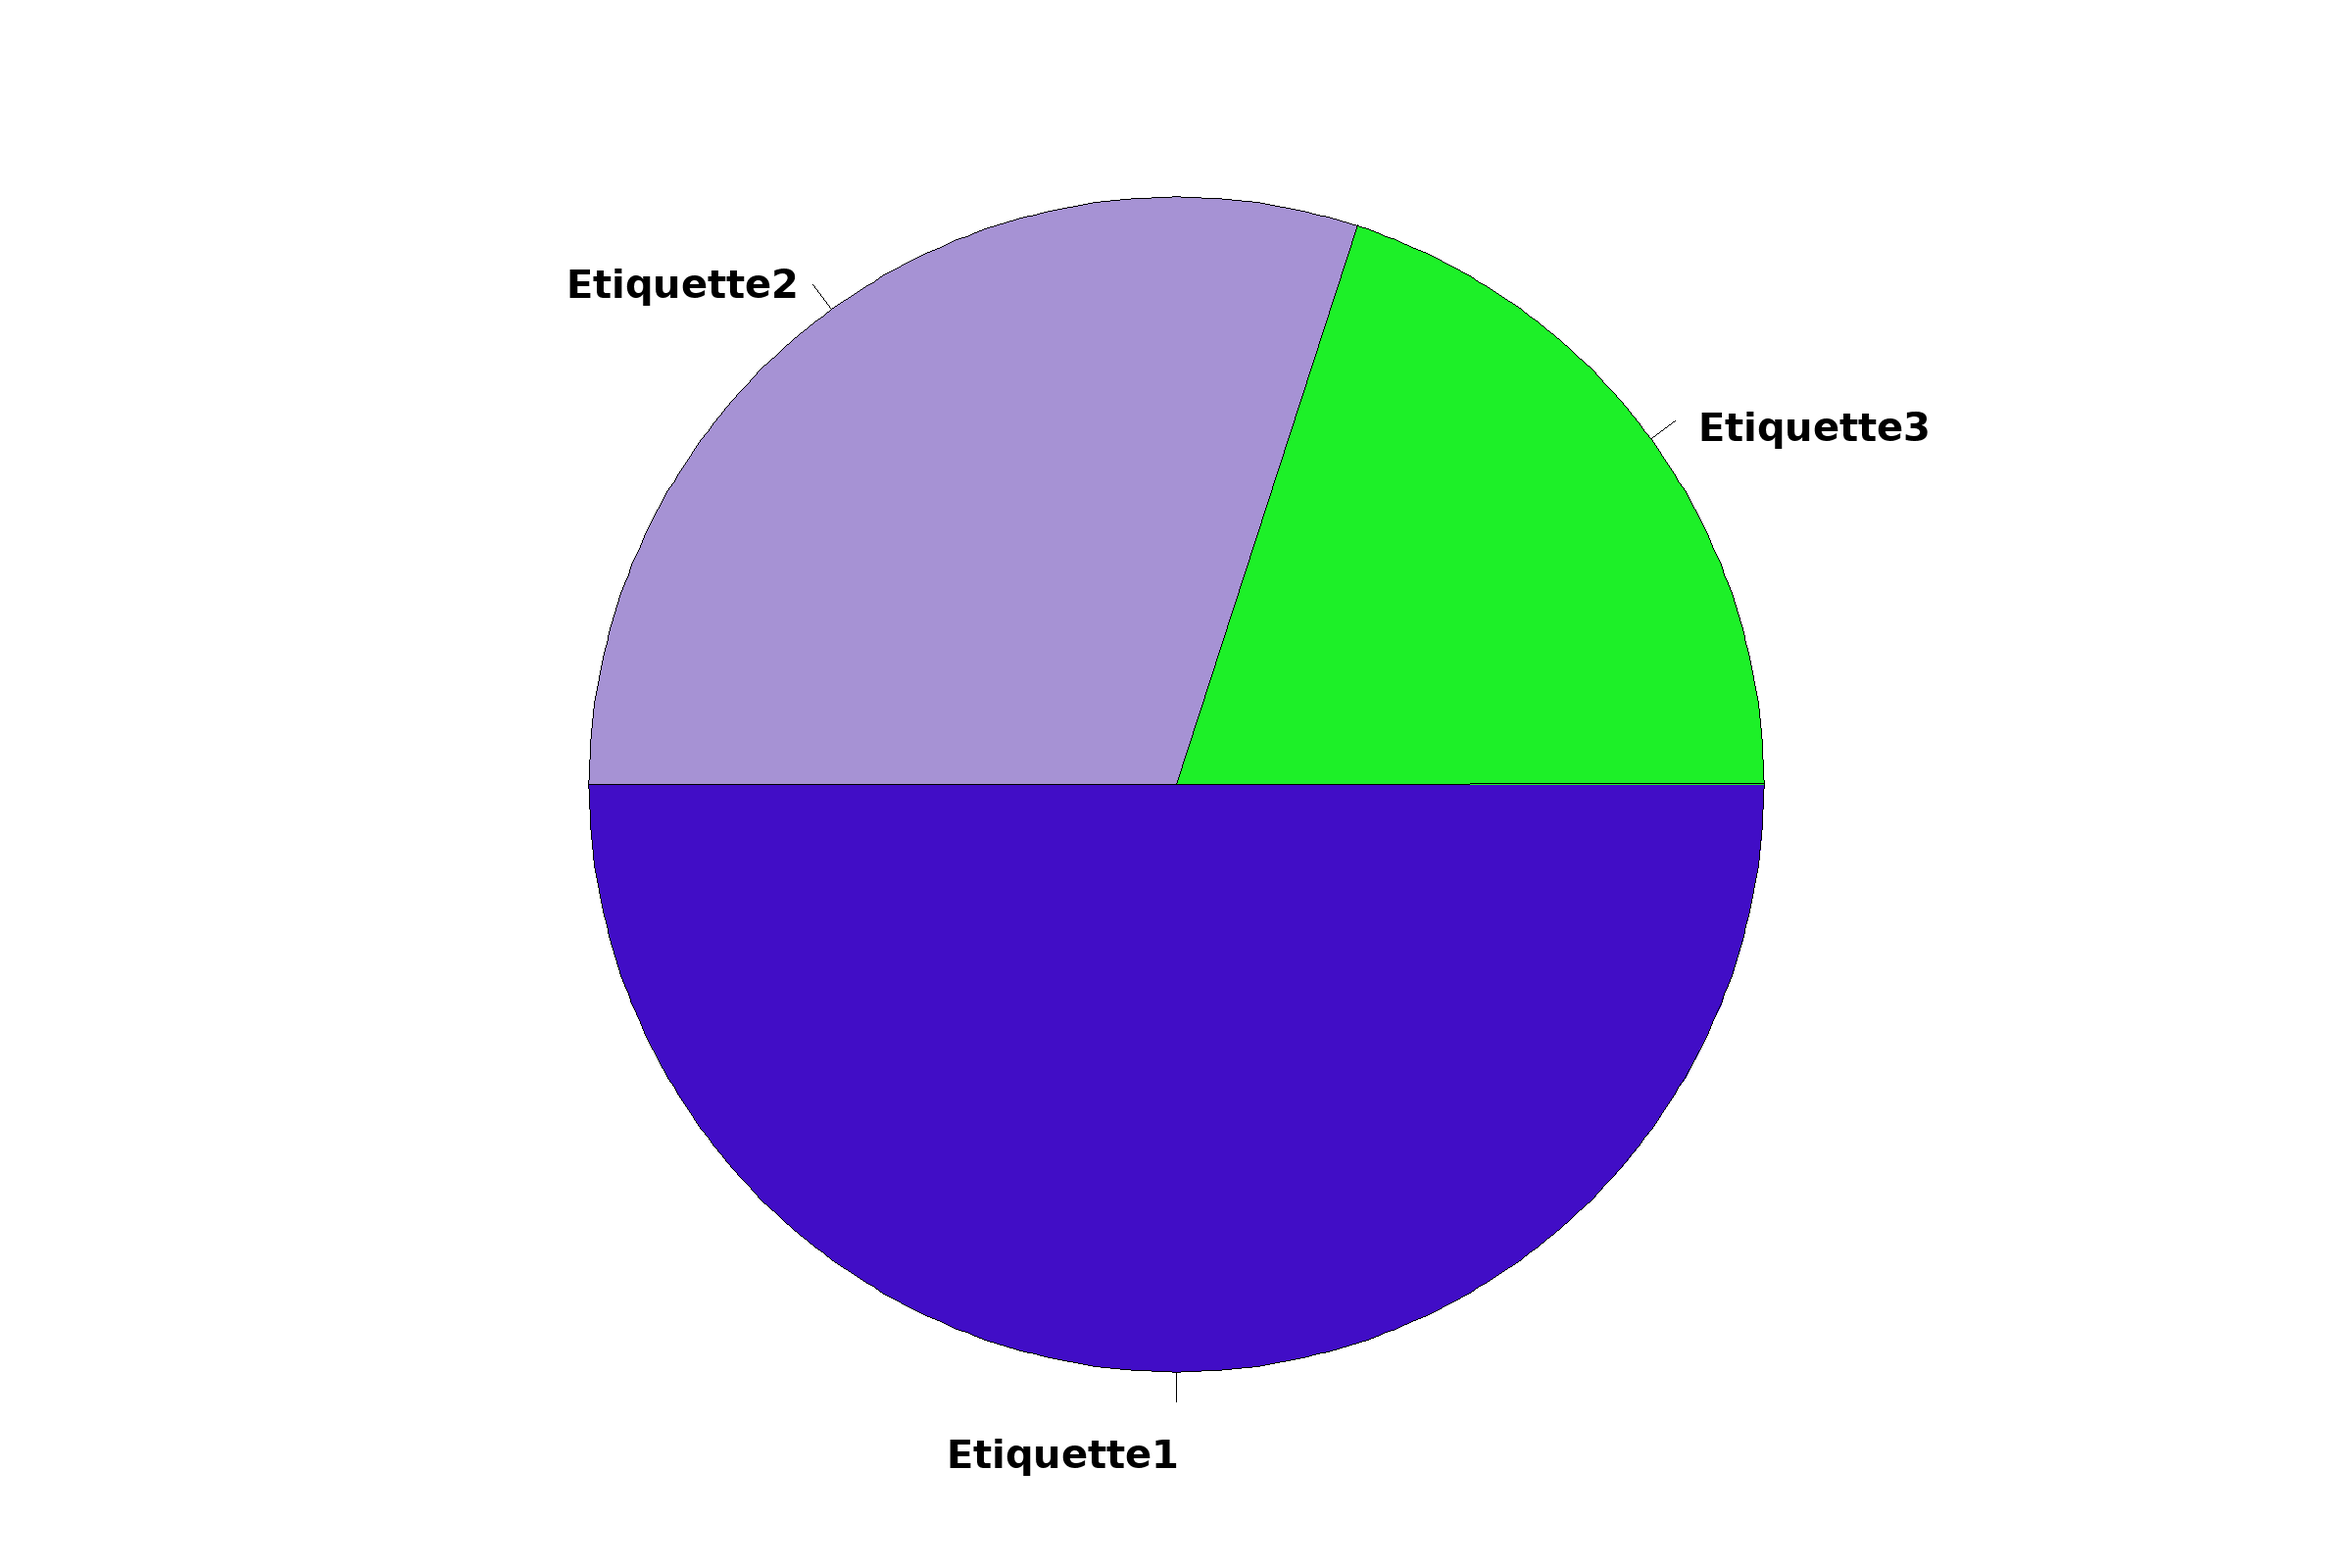
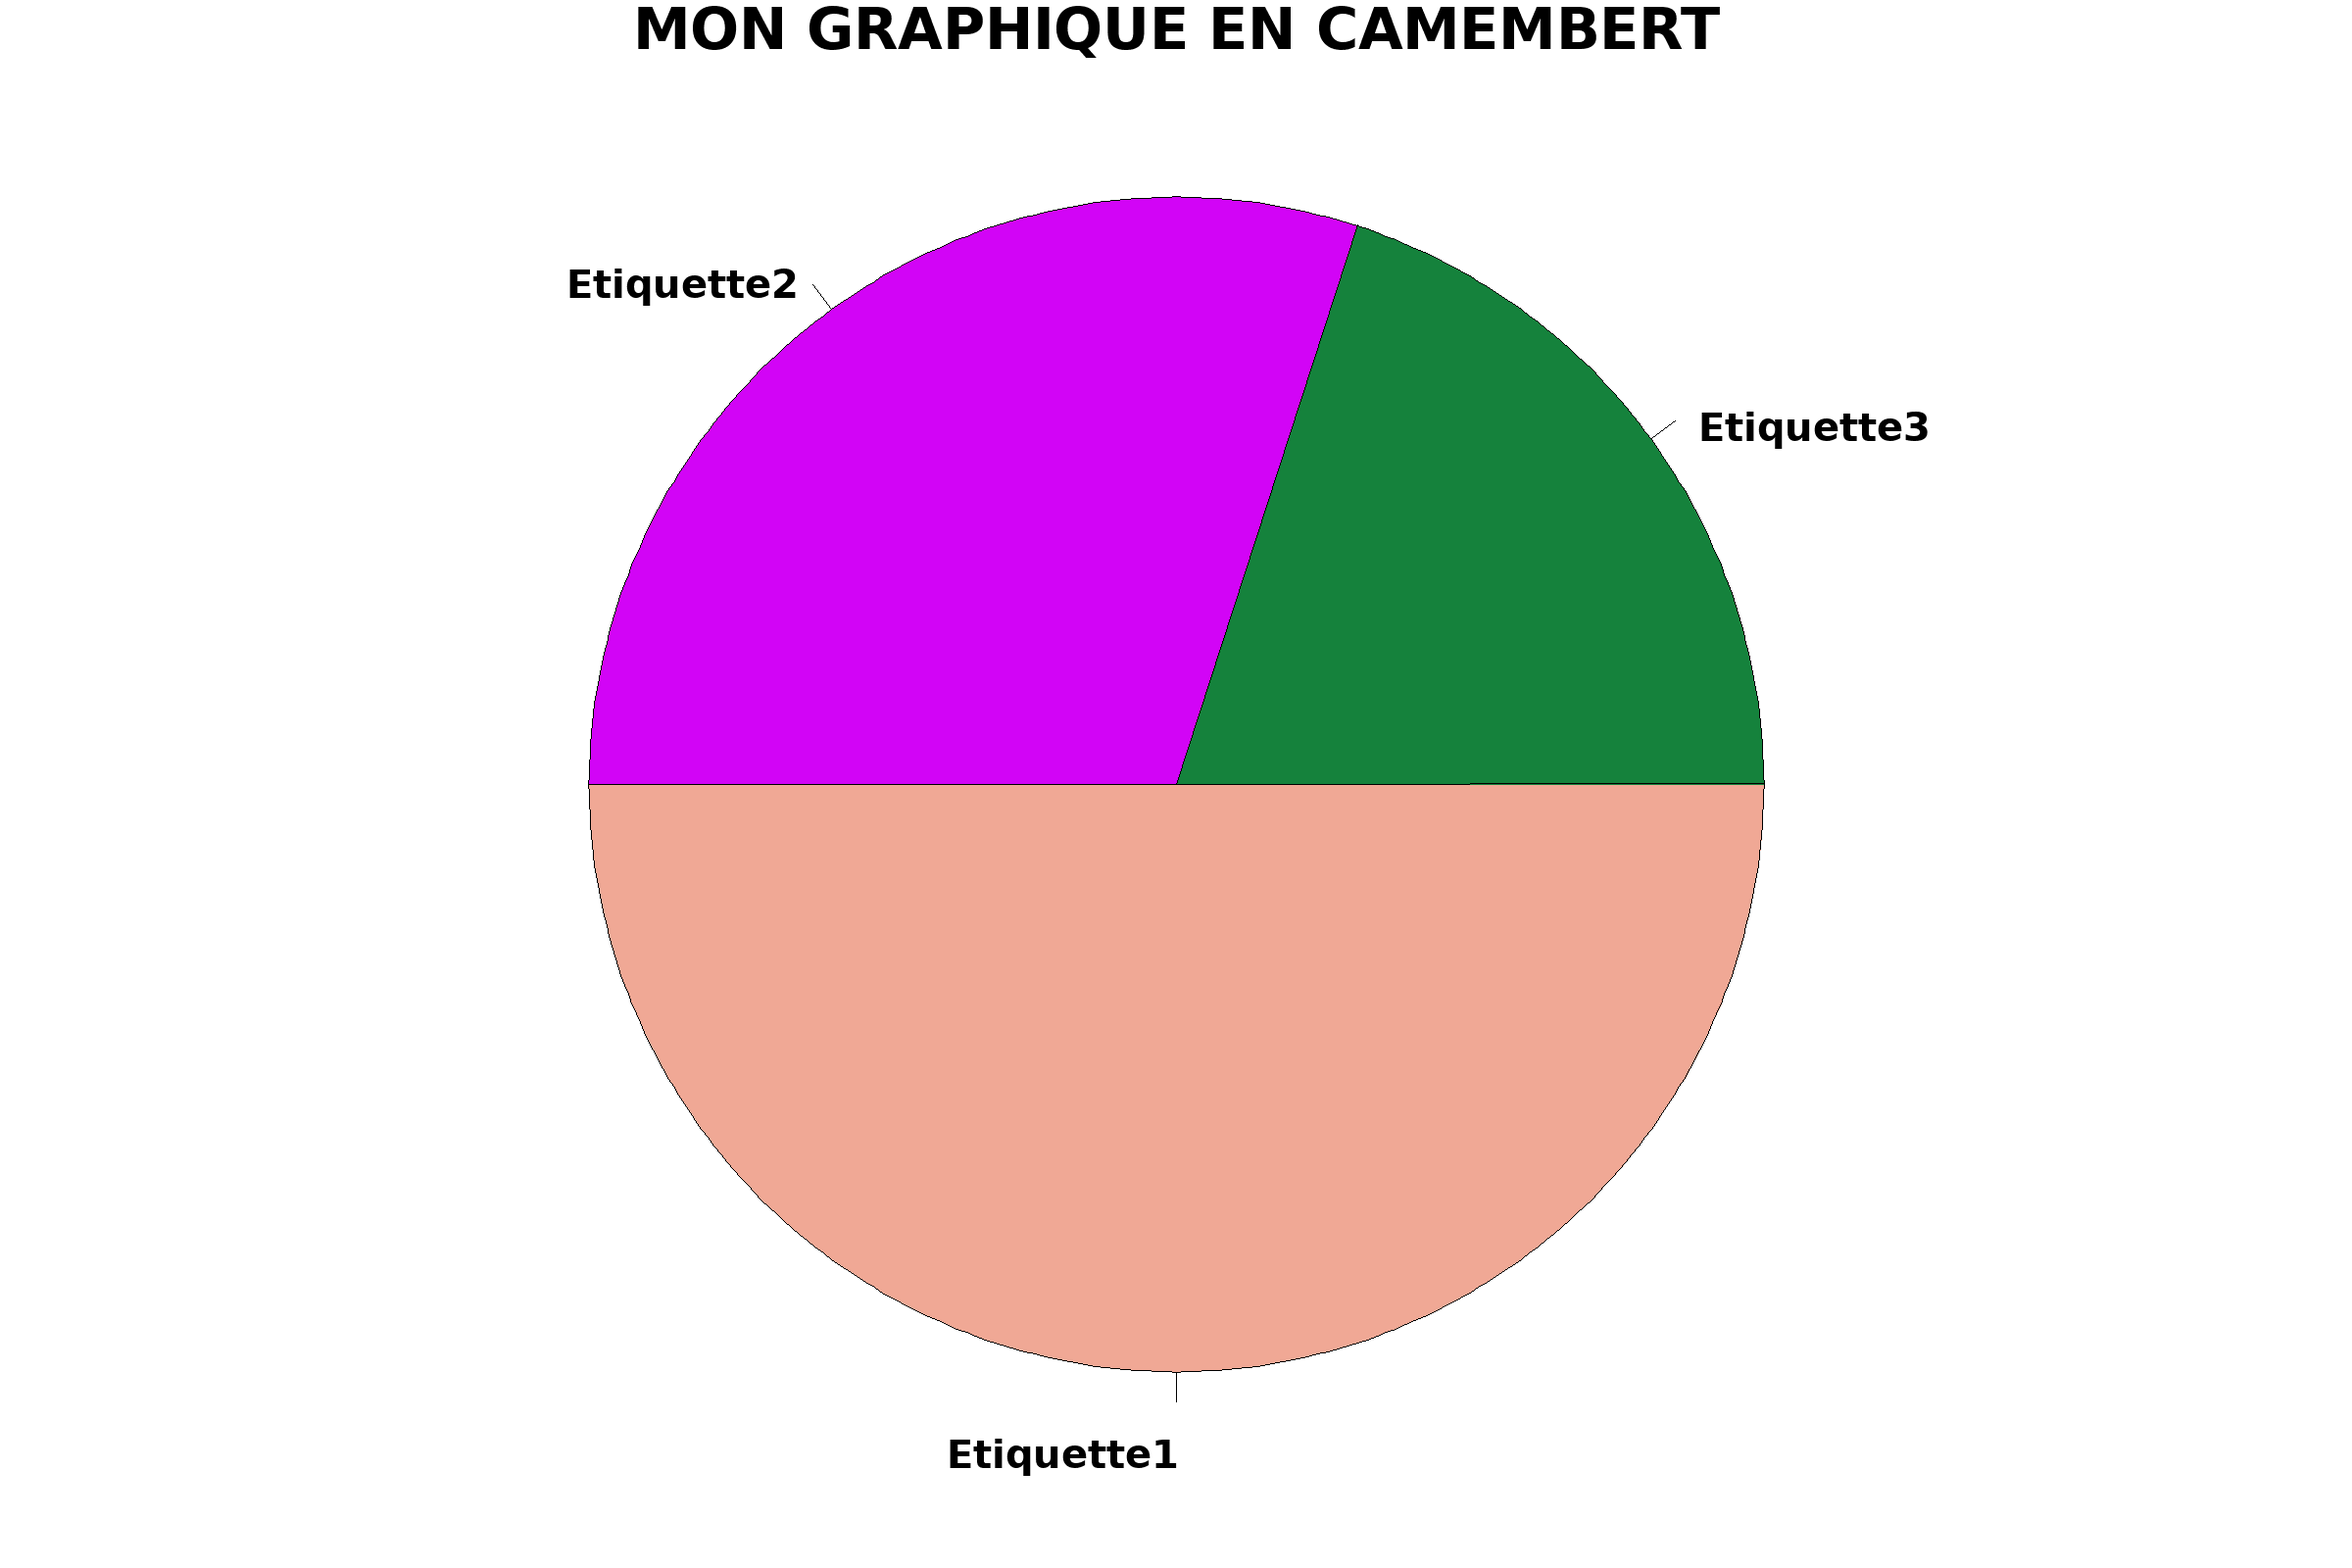
Ajout du titre

Changed region(s): [[0.25, 0.125, 0.75, 0.875], [0.25, 0.0, 0.75, 0.0312]]

diff --git a/main.c b/main.c
@@ -4,15 +4,19 @@
 #include <string.h>
 #include <gd.h>
 #include <math.h>
-#include <unistd.h> 
+#include <unistd.h> // Pour accéder à la fonction access()
 
 #define FONT_PATH "/usr/share/fonts/truetype/dejavu/DejaVuSans-Bold.ttf"
-
+#define TITRE "Mon graphique en camembert"
+#define SIZE_TITLE 44
+#define WIDTH 2400
+#define HEIGTH 1600
 // Structure pour stocker les informations sur un segment du graphique
 typedef struct
 {
     int percentage;
     char *label;
+    gdImagePtr color;
 } PieChartSegment;
 
 // Définir une approximation de la palette "viridis"
@@ -37,11 +41,13 @@ PieChartSegment *parse_segments(char **input, int *length);
 void calculate_coordinates(int x, int y, int radius, int angle, int *coord_x, int *coord_y);
 void draw_pie_segments(gdImagePtr img, PieChartSegment *segments, int length, int x, int y, int start_angle, int radius, int black);
 void draw_label(gdImagePtr img, PieChartSegment *segments, int length, int x, int y, int start_angle, int radius, int color);
+void draw_title(gdImagePtr img, const char *title, int x, int y, int color);
+
 
 int main(int argc, char **argv)
 {
-    int width = 2400;
-    int height = 1600;
+    int width = WIDTH;
+    int height = HEIGTH;
     int start_angle = 0; // Définir l'angle de départ
     int end_angle = 60;  // Définir l'angle de fin
     int radius = 600;    // Définir le rayon
@@ -71,6 +77,10 @@ int main(int argc, char **argv)
     // Couleur de fond
     int bg = gdImageColorAllocate(img, 255, 255, 255);
     int black = gdImageColorAllocate(img, 0, 0, 0); // Couleur de la bordure
+
+     // Dessinez le titre
+    draw_title(img, TITRE, width / 2, 50, black);
+
     // Dessiner le graphique en camembert
     // Dessiner chaque segment
     draw_pie_segments(img, segments, length, x, y, start_angle, radius, black);
@@ -84,6 +94,7 @@ int main(int argc, char **argv)
         return 1;
     }
     draw_label(img, segments, length, x, y, start_angle, radius, black);
+
     // Enregistrer l'image
     FILE *out = fopen(output_file, "wb+");
 
@@ -144,7 +155,6 @@ void draw_label(gdImagePtr img, PieChartSegment *segments, int length, int x, in
         label_y += (brect[3] - brect[5]) / 2;
 
         gdImageStringFT(img, brect, color, fontPath, fontSize, 0, label_x - (brect[2] - brect[0]) / 2, label_y + (brect[3] - brect[7]) / 2, label);
-
         start_angle = end_angle;
     }
 }
@@ -230,4 +240,27 @@ PieChartSegment *parse_segments(char **input, int *length)
         i++;
     }
     return segments;
+}
+
+void draw_title(gdImagePtr img, const char *title, int x, int y, int color)
+{
+    int brect[8];
+    double size = SIZE_TITLE;
+    char *err;
+    double angle = 0.0;
+    int len = strlen(title);
+    char string[len+1];
+    for(int i = 0; i < len; i++) {
+        string[i] = toupper(title[i]);
+    }
+    string[len] = '\0';
+
+    err = gdImageStringFT(NULL, &brect[0], color, FONT_PATH, size, angle, 0, 0, string);
+    if (err) {
+        fprintf(stderr, "Impossible de rendre le titre: %s\n", err);
+        return;
+    }
+    
+    gdImageStringFT(img, &brect[0], color, FONT_PATH, size, angle, x - brect[2] / 2, y, string);
+
 }
